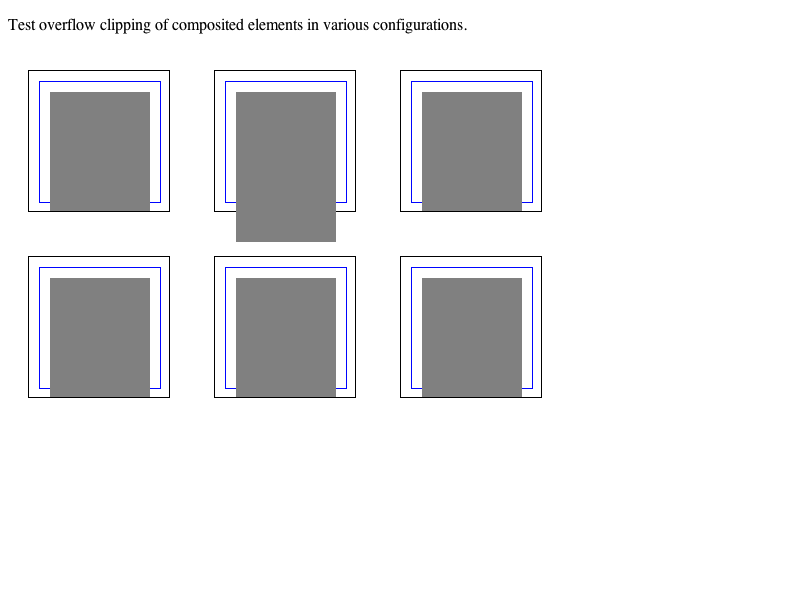
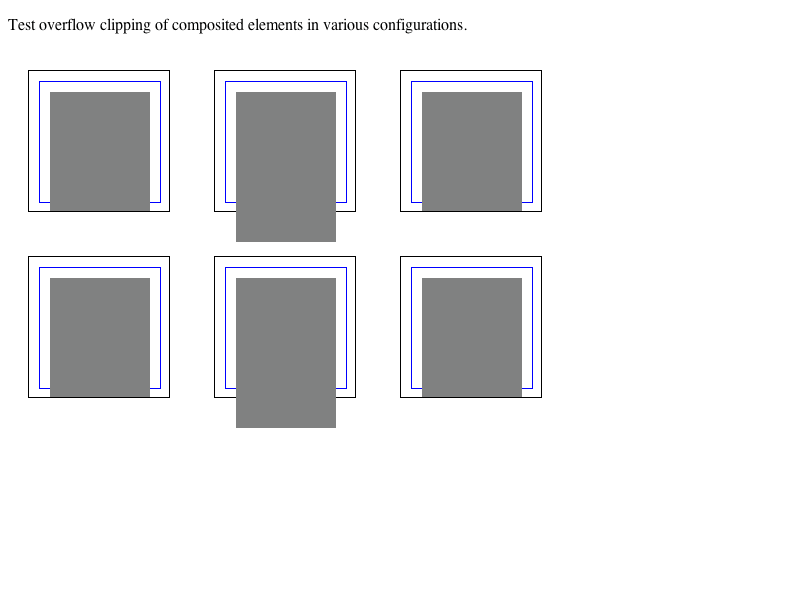
2009-09-21  Simon Fraser  <simon.fraser@apple.com>
Reviewed by Dan Bernstein.

        Incorrect clipping with accelerated compositing content, and position:fixed
        https://bugs.webkit.org/show_bug.cgi?id=29347

        Fix the compositing clipping logic to behave correctly when position:fixed
        elements clip, by using the new backgroundClipRect() method to determine
        when we need to clip, and to compute the clipping layer position.

        Test: compositing/overflow/fixed-position-ancestor-clip.html

        * rendering/RenderLayerBacking.cpp:
        (WebCore::RenderLayerBacking::updateGraphicsLayerGeometry):
        * rendering/RenderLayerCompositor.cpp:
        (WebCore::RenderLayerCompositor::clippedByAncestor):

git-svn-id: https://svn.webkit.org/repository/webkit/trunk@48599 268f45cc-cd09-0410-ab3c-d52691b4dbfc

Changed region(s): [[0.2812, 0.66, 0.4375, 0.72]]

diff --git a/LayoutTests/compositing/overflow/fixed-position-ancestor-clip.html b/LayoutTests/compositing/overflow/fixed-position-ancestor-clip.html
@@ -1,0 +1,47 @@
+<!DOCTYPE>
+
+<html>
+<head>
+  <title>Position fixed with transform</title>
+  <style type="text/css" media="screen">
+    body {
+      height: 1000px;
+      width: 1000px;
+    }
+    #fixed {
+      position: fixed;
+      width: 100px;
+      height: 100px;
+      background-color: red;
+      overflow: hidden;
+    }
+    
+    .box {
+      width: 100px;
+      height: 100px;
+      background-color: green;
+      -webkit-transform: translateZ(0);
+    }
+
+    p {
+      position: absolute;
+      left: 50px;
+      top: 150px;
+    }
+  </style>
+  <script type="text/javascript" charset="utf-8">
+    window.addEventListener('load', function() {
+      window.scrollBy(50, 50);
+    }, false);
+  </script>
+</head>
+<body>
+  
+  <p>You should see a single green square, with no red.</p>
+  <div id="fixed">
+    <div class="box">
+    </div>
+  </div>
+
+</body>
+</html>

diff --git a/WebCore/rendering/RenderLayerBacking.cpp b/WebCore/rendering/RenderLayerBacking.cpp
@@ -257,10 +257,7 @@ void RenderLayerBacking::updateGraphicsLayerGeometry()
         // Call calculateRects to get the backgroundRect which is what is used to clip the contents of this
         // layer. Note that we call it with temporaryClipRects = true because normally when computing clip rects
         // for a compositing layer, rootLayer is the layer itself.
-        ClipRects parentRects;
-        m_owningLayer->parentClipRects(compAncestor, parentRects, true);
-        IntRect parentClipRect = parentRects.overflowClipRect();
-        
+        IntRect parentClipRect = m_owningLayer->backgroundClipRect(compAncestor, true);
         m_ancestorClippingLayer->setPosition(FloatPoint() + (parentClipRect.location() - graphicsLayerParentLocation));
         m_ancestorClippingLayer->setSize(parentClipRect.size());
 

diff --git a/WebCore/rendering/RenderLayerCompositor.cpp b/WebCore/rendering/RenderLayerCompositor.cpp
@@ -867,10 +867,8 @@ bool RenderLayerCompositor::clippedByAncestor(RenderLayer* layer) const
     if (!computeClipRoot || computeClipRoot == layer)
         return false;
 
-    ClipRects parentRects;
-    layer->parentClipRects(computeClipRoot, parentRects, true);
-
-    return parentRects.overflowClipRect() != ClipRects::infiniteRect();
+    IntRect backgroundRect = layer->backgroundClipRect(computeClipRoot, true);
+    return backgroundRect != ClipRects::infiniteRect();
 }
 
 // Return true if the given layer is a stacking context and has compositing child
